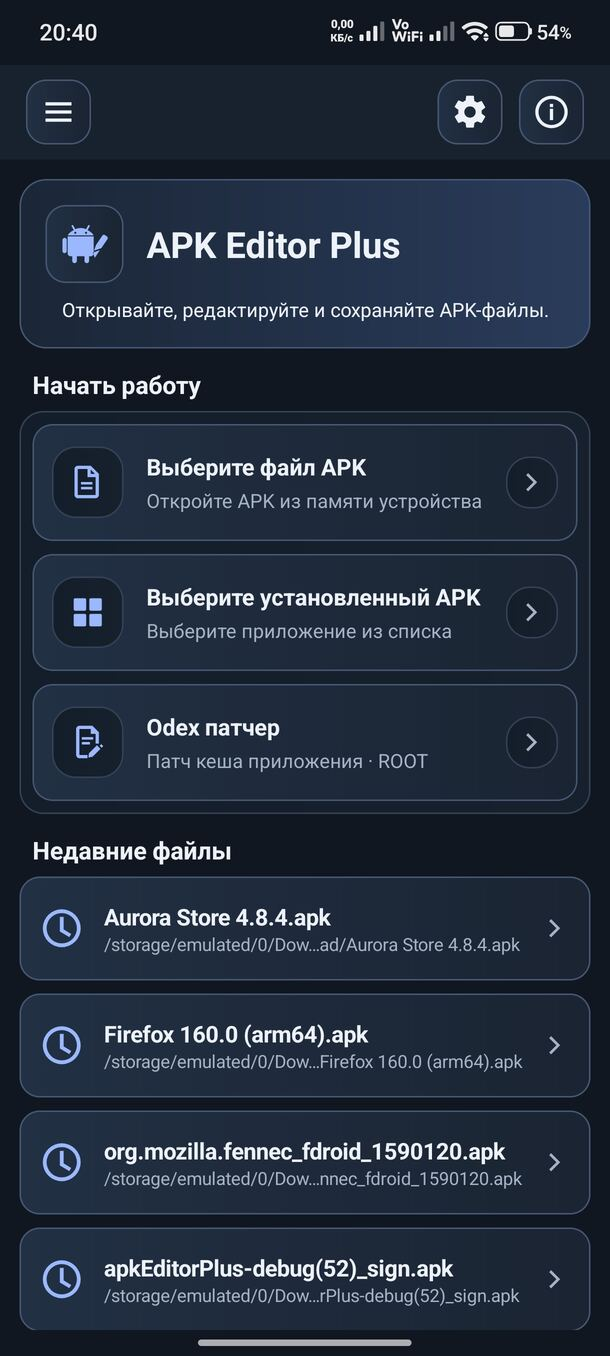
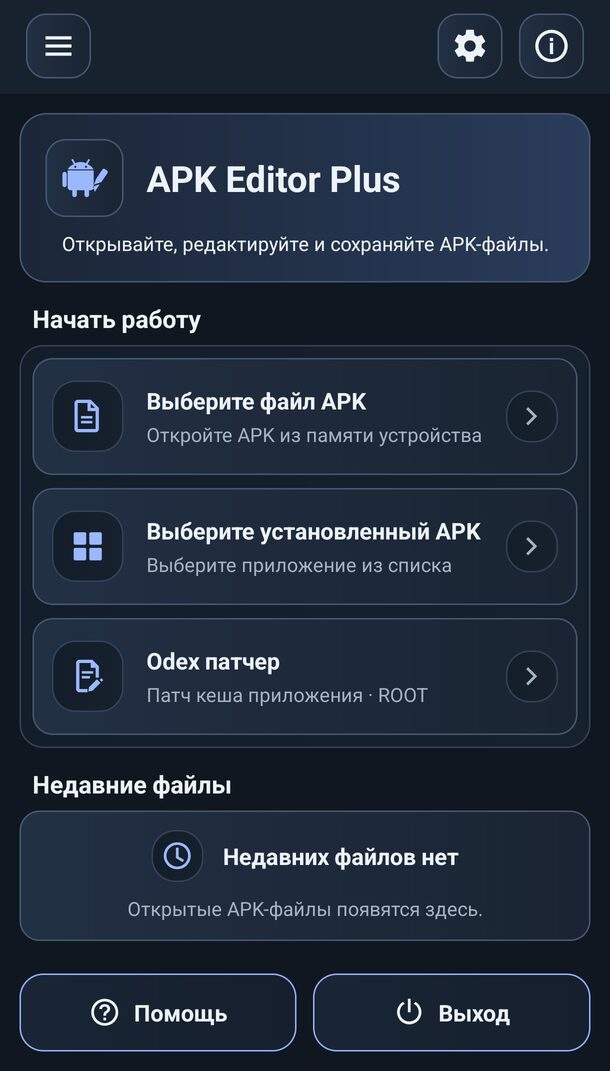
Use user-provided app screenshots in Russian help

diff --git a/README.md b/README.md
@@ -1,10 +1,10 @@
-# APK Editor Plus v1.10.0.265
+# APK Editor Plus v1.10.0.266
 
 [![Сборка](https://github.com/stroy13/test_mod/actions/workflows/build.yml/badge.svg)](https://github.com/stroy13/test_mod/actions/workflows/build.yml)
 
 Полноценный форк Android-приложения **APK Editor Plus** (`ru.apkeditor.plus`)
 с собственными исправлениями и развитием кодовой базы. Актуальная версия —
-**265** / **1.10.0.265**, история изменений — в [`docs/CHANGELOG.md`](docs/CHANGELOG.md).
+**266** / **1.10.0.266**, история изменений — в [`docs/CHANGELOG.md`](docs/CHANGELOG.md).
 
 Проект собирается штатным Gradle: `:apkEditorPlus:assembleDebug` →
 `apkEditorPlus/build/outputs/apk/debug/apkEditorPlus-debug.apk`.
@@ -15,7 +15,7 @@
 | Параметр | Значение |
 |---|---|
 | Package / applicationId | `ru.apkeditor.plus` |
-| versionCode / versionName | `265` / `1.10.0.265` (см. [`docs/CHANGELOG.md`](docs/CHANGELOG.md)) |
+| versionCode / versionName | `266` / `1.10.0.266` (см. [`docs/CHANGELOG.md`](docs/CHANGELOG.md)) |
 | minSdk / targetSdk / compileSdk | 26 / 37 / 37 |
 | Gradle / AGP | 9.8.2 / 9.5.1 |
 | JDK | 17 |

diff --git a/docs/CHANGELOG.md b/docs/CHANGELOG.md
@@ -1,5 +1,10 @@
 # Изменения
 
+## 1.10.0.266 — новые скриншоты в справке
+
+- Скриншоты справки заменены на присланные изображения главного экрана и раздела инструментов APK Editor Plus.
+- Повышен versionCode до 266.
+
 ## 1.10.0.265 — примеры справки на APK Editor Plus
 
 - В русской справке заменён устаревший пример с чужими приложениями на APK Editor Plus; добавлены реальные изображения главного экрана и экрана инструментов этого приложения.
